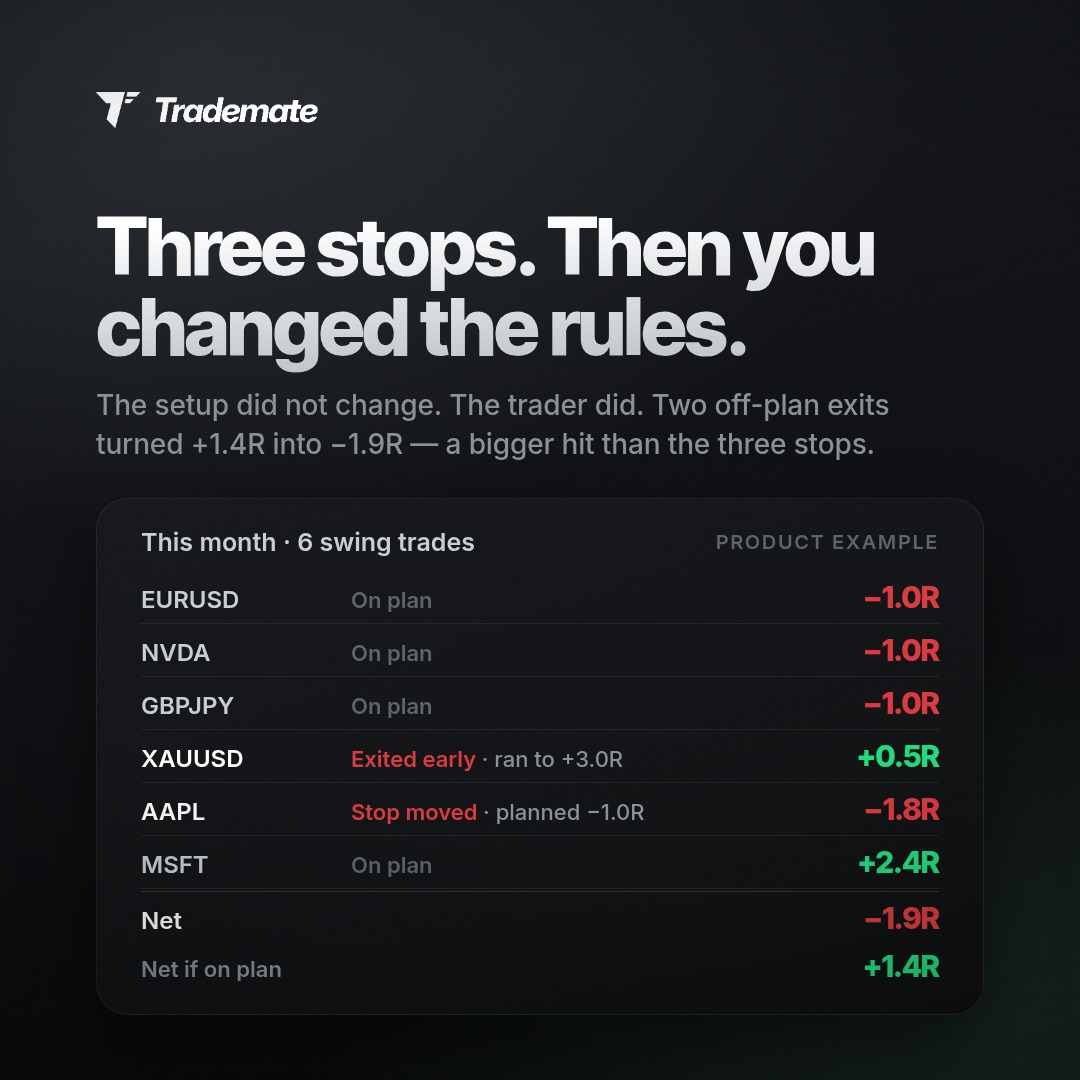
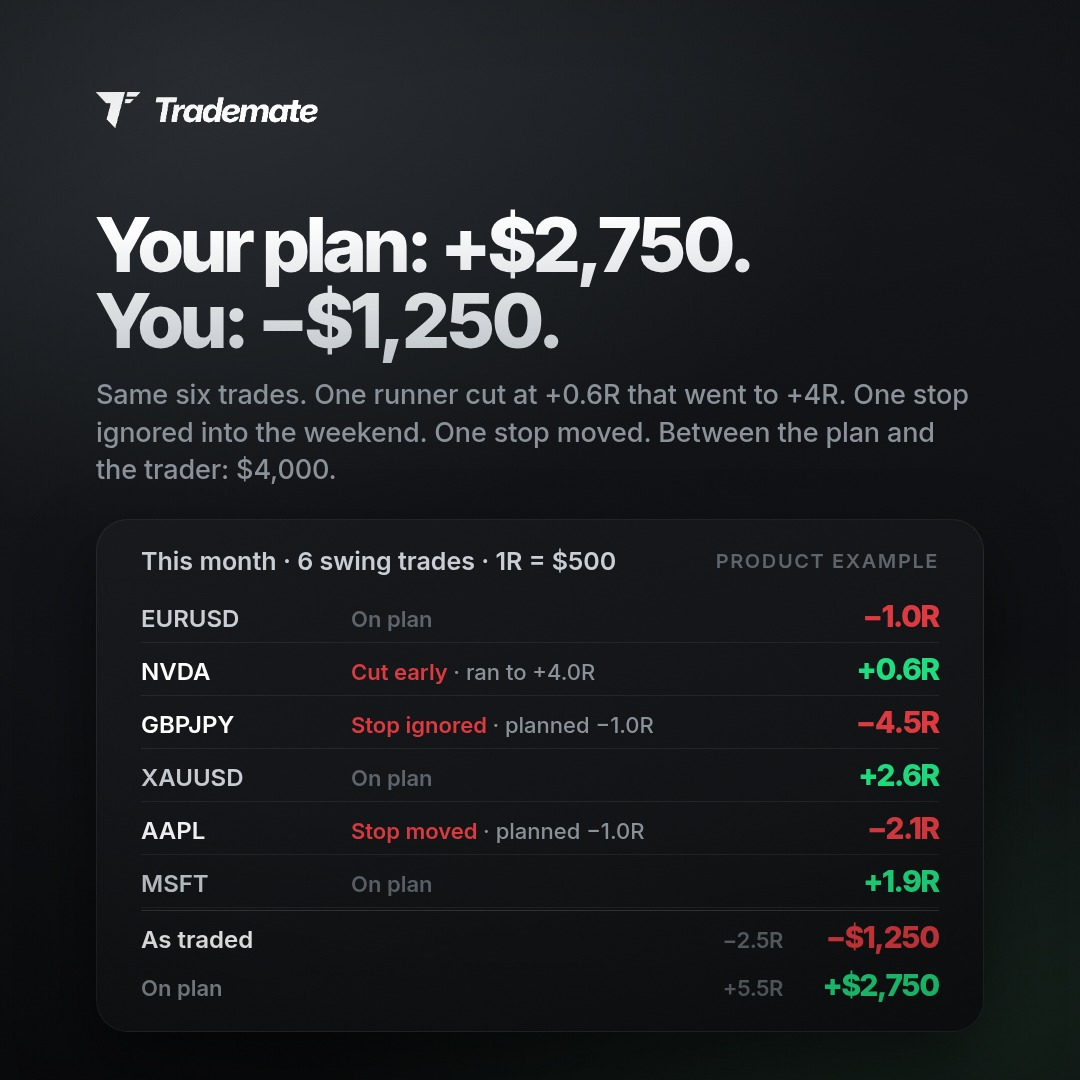
Pain posts: one session, one month, numbers that hurt
Day post reads as a single session now, not an hourly average: the card
names the day, counts the trades, plots one dot per trade on a cumulative
P&L curve and marks the first loss. Numbers scaled up to a +$1,240 high
and a -$860 close, with a KPI strip (given back, entries after the first
loss, on plan) so the story is on the card.

Swing post reframed as plan vs. trader: same six trades, +$2,750 on plan,
-$1,250 as traded, 1R = $500 stated on the card. Three off-plan decisions
(runner cut, stop ignored into the weekend, stop moved) explain the $4,000
gap. Captions rewritten to match.

Claude-Session: https://claude.ai/code/session_01N2gUmRZUhZ4hqjJePYK53L

diff --git a/posts/pain-day-swing/src/post.html b/posts/pain-day-swing/src/post.html
@@ -120,9 +120,16 @@
   .rows .net span{font-size:27px;color:#fff;} .rows .net b{font-size:44px;}
   .rows .net.alt{padding-top:4px;margin-top:0;border-top:none;} .rows .net.alt span{font-size:22px;color:#8a9199;} .rows .net.alt b{font-size:30px;}
   .rows.one>div em i{font-style:normal;color:#8a9199;font-weight:500;}
-  body[data-slide="day"] .hl, body[data-slide="swing"] .hl{font-size:80px;}
+  
   body[data-slide="day"] .sub, body[data-slide="swing"] .sub{font-size:30px;max-width:880px;}
-  body[data-slide="swing"] .sub{font-size:28px;margin-top:20px;}
+  body[data-slide="swing"] .sub, body[data-slide="day"] .sub{font-size:27px;margin-top:18px;}
+  .ylab{font-family:'Inter';font-size:16px;font-weight:700;letter-spacing:.14em;text-transform:uppercase;color:#5d646b;margin-top:10px;}
+  .kpis{display:grid;grid-template-columns:1fr 1.4fr 1fr;gap:20px;margin-top:14px;padding-top:18px;border-top:1px solid rgba(255,255,255,.08);}
+  .kpis b{display:block;font-size:34px;font-weight:800;letter-spacing:-.03em;color:#fff;} .kpis div:first-child b{color:#DC3A40;}
+  .kpis span{display:block;font-family:'Inter';font-size:19px;font-weight:500;color:#8a9199;margin-top:2px;line-height:1.25;}
+  .rows .net em{font-style:normal;font-family:'Inter Tight';font-size:26px;font-weight:700;color:#8a9199;flex:1;text-align:right;padding-right:26px;letter-spacing:-.02em;}
+  .rows .net.alt em{font-size:22px;}
+  body[data-slide="day"] .hl, body[data-slide="swing"] .hl{font-size:76px;}
   .disc{position:absolute;left:88px;right:88px;bottom:70px;text-align:center;font-family:'Inter';font-size:19px;font-weight:500;color:#5d646b;line-height:1.45;}
 </style></head>
 <body>
@@ -156,10 +163,11 @@ en:{
   stB:'Auto charts', stBd:'Every trade gets its chart attached automatically. Entry, exit, stop, target.',
   vote:'Vote below', zoneA:'Poll sticker goes here', zoneB:'Options: Backtesting · Auto charts',
   disc:'Product concept. Features shown are planned, not final.',
-  dayH:'Up $490 at 10:00.<br>Up $35 at the close.', dayS:'Everything after the first red trade was an attempt to get it back. $625 given back in three hours, none of it on the plan.',
-  dayM:'Running P&L · one session', dayF:'Product example', dayHi:'High', dayCl:'Close',
-  swH:'Three stops. Then you changed the rules.', swS:'The setup did not change. The trader did. Two off-plan exits turned +1.4R into −1.9R — a bigger hit than the three stops.',
-  swM:'This month · 6 swing trades', swN:'Net', swP:'Net if on plan', swF:'Product example', plan:'On plan', early:'Exited early', earlyN:'ran to', moved:'Stop moved', movedN:'planned'
+  dayH:'Up $1,240 at 10:30.<br>Down $860 at the close.', dayS:'One good hour, then ten entries to get it back. $2,100 given back, two of them on the plan.',
+  dayM:'Tue, Aug 12 · one session · 13 trades', dayY:'Cumulative P&L', dayF:'Product example', dayHi:'High', dayCl:'Close', dayFL:'First loss',
+  dayK:[['$2,100','given back'],['10','entries after the first loss'],['2','on the plan']],
+  swH:'Your plan: +$2,750.<br>You: −$1,250.', swS:'Same six trades. One runner cut at +0.6R that went to +4R. One stop ignored into the weekend. One stop moved. Between the plan and the trader: $4,000.',
+  swM:'This month · 6 swing trades · 1R = $500', swN:'As traded', swP:'On plan', swF:'Product example', plan:'On plan', early:'Cut early', earlyN:'ran to', ignored:'Stop ignored', ignoredN:'planned', moved:'Stop moved', movedN:'planned'
 },
 de:{
   swipe:'Wischen →', brand:'Trademate', concept:'Konzept, kein finales UI', of:'von',
@@ -185,10 +193,11 @@ de:{
   stB:'Auto-Charts', stBd:'Jeder Trade bekommt seinen Chart automatisch angehängt. Entry, Exit, Stop, Ziel.',
   vote:'Stimm unten ab', zoneA:'Umfrage-Sticker hier platzieren', zoneB:'Optionen: Backtesting · Auto-Charts',
   disc:'Produktkonzept. Gezeigte Funktionen sind geplant, nicht final.',
-  dayH:'Um 10:00 bei +$490.<br>Zum Close bei +$35.', dayS:'Alles nach dem ersten roten Trade war der Versuch, es zurückzuholen. $625 in drei Stunden zurückgegeben, nichts davon nach Plan.',
-  dayM:'Laufender P&L · eine Session', dayF:'Produktbeispiel', dayHi:'Hoch', dayCl:'Close',
-  swH:'Drei Stops. Dann hast du die Regeln geändert.', swS:'Das Setup war dasselbe. Der Trader nicht. Zwei Exits gegen den Plan machten aus +1,4R −1,9R – teurer als die drei Stops.',
-  swM:'Dieser Monat · 6 Swing-Trades', swN:'Netto', swP:'Netto nach Plan', swF:'Produktbeispiel', plan:'Nach Plan', early:'Zu früh raus', earlyN:'lief bis', moved:'Stop verschoben', movedN:'geplant'
+  dayH:'Um 10:30 bei +$1.240.<br>Zum Close bei −$860.', dayS:'Eine gute Stunde, dann zehn Entries, um es zurückzuholen. $2.100 zurückgegeben, zwei davon nach Plan.',
+  dayM:'Di., 12. Aug. · eine Session · 13 Trades', dayY:'Kumulierter P&L', dayF:'Produktbeispiel', dayHi:'Hoch', dayCl:'Close', dayFL:'Erster Verlust',
+  dayK:[['$2.100','zurückgegeben'],['10','Entries nach dem ersten Verlust'],['2','nach Plan']],
+  swH:'Dein Plan: +$2.750.<br>Du: −$1.250.', swS:'Dieselben sechs Trades. Ein Runner bei +0,6R gekappt, der bis +4R lief. Ein Stop übers Wochenende ignoriert, einer verschoben. Zwischen Plan und Trader: $4.000.',
+  swM:'Dieser Monat · 6 Swing-Trades · 1R = $500', swN:'So gehandelt', swP:'Nach Plan', swF:'Produktbeispiel', plan:'Nach Plan', early:'Zu früh raus', earlyN:'lief bis', ignored:'Stop ignoriert', ignoredN:'geplant', moved:'Stop verschoben', movedN:'geplant'
 }}[LANG];
 
 function candles(){ // deterministic little 5m chart for slide 6
@@ -212,23 +221,35 @@ function candles(){ // deterministic little 5m chart for slide 6
 const logo='<img class="logo" src="logo.png" alt="Trademate">';
 const foot=(n)=>'<div class="foot"><span>'+C.brand+'</span><span>'+(n<7?C.swipe:'')+'</span><span>'+n+' / 7</span></div>';
 function runningPnl(){
-  const pts=[['09:00',0],['10:00',490],['11:00',370],['12:00',-40],['13:00',-135],['14:00',-75],['15:00',120],['16:00',35]];
-  const W=800,H=330,padL=44,padR=70,top=54,bot=54,min=-230,max=560;
-  const x=i=>padL+i*(W-padL-padR)/(pts.length-1), y=v=>top+(max-v)/(max-min)*(H-top-bot);
-  let d=pts.map((p,i)=>(i?'L':'M')+x(i)+' '+y(p[1])).join(' ');
+  const pts=[['09:30',0],['10:00',720],['10:30',1240],['11:00',980],['11:30',410],['12:00',-120],['12:30',-540],['13:00',-310],['13:30',-690],['14:00',-450],['14:30',-700],['15:00',-520],['15:30',-640],['16:00',-860]];
+  const W=800,H=290,padL=36,padR=70,top=56,bot=46,min=-1150,max=1500;
+  const n=pts.length, x=i=>padL+i*(W-padL-padR)/(n-1), y=v=>top+(max-v)/(max-min)*(H-top-bot);
+  const dol=v=>(v>=0?'+':'−')+'$'+Math.abs(v).toLocaleString(LANG==='de'?'de-DE':'en-US');
+  const d=pts.map((p,i)=>(i?'L':'M')+x(i).toFixed(1)+' '+y(p[1]).toFixed(1)).join(' ');
   let s='<svg width="'+W+'" height="'+H+'" viewBox="0 0 '+W+' '+H+'">';
-  s+='<defs><linearGradient id="gA" x1="0" y1="0" x2="0" y2="1"><stop offset="0" stop-color="#1FDD7F" stop-opacity=".22"/><stop offset="1" stop-color="#1FDD7F" stop-opacity="0"/></linearGradient></defs>';
-  s+='<line x1="0" x2="'+W+'" y1="'+y(0)+'" y2="'+y(0)+'" stroke="rgba(255,255,255,.16)" stroke-dasharray="4 6"/>';
-  s+='<path d="'+d+' L'+x(pts.length-1)+' '+y(0)+' L'+x(0)+' '+y(0)+'Z" fill="url(#gA)"/>';
+  s+='<defs><linearGradient id="gA" x1="0" y1="0" x2="0" y2="1"><stop offset="0" stop-color="#1FDD7F" stop-opacity=".22"/><stop offset="1" stop-color="#1FDD7F" stop-opacity="0"/></linearGradient>'
+   +'<linearGradient id="gR" x1="0" y1="0" x2="0" y2="1"><stop offset="0" stop-color="#DC3A40" stop-opacity="0"/><stop offset="1" stop-color="#DC3A40" stop-opacity=".22"/></linearGradient>'
+   +'<clipPath id="cUp"><rect x="0" y="0" width="'+W+'" height="'+y(0)+'"/></clipPath><clipPath id="cDn"><rect x="0" y="'+y(0)+'" width="'+W+'" height="'+(H-y(0))+'"/></clipPath></defs>';
+  s+='<line x1="'+padL+'" x2="'+(W-padR+30)+'" y1="'+y(0)+'" y2="'+y(0)+'" stroke="rgba(255,255,255,.18)" stroke-dasharray="4 6"/>';
+  s+='<text x="'+(padL-4)+'" y="'+(y(0)+22)+'" font-family="Inter" font-size="16" font-weight="600" fill="#5d646b">$0</text>';
+  const area='M'+x(0)+' '+y(0)+' '+pts.map((p,i)=>'L'+x(i)+' '+y(p[1])).join(' ')+' L'+x(n-1)+' '+y(0)+'Z';
+  s+='<path d="'+area+'" fill="url(#gA)" clip-path="url(#cUp)"/><path d="'+area+'" fill="url(#gR)" clip-path="url(#cDn)"/>';
   s+='<path d="'+d+'" fill="none" stroke="#e6e9ec" stroke-width="4" stroke-linejoin="round" stroke-linecap="round"/>';
-  // give-back segment in red
-  s+='<path d="M'+x(1)+' '+y(490)+' L'+x(2)+' '+y(370)+' L'+x(3)+' '+y(-40)+' L'+x(4)+' '+y(-135)+'" fill="none" stroke="#DC3A40" stroke-width="4" stroke-linejoin="round" stroke-linecap="round"/>';
-  pts.forEach((p,i)=>s+='<text x="'+x(i)+'" y="'+(H-14)+'" text-anchor="middle" font-family="Inter" font-size="20" font-weight="600" fill="#7e868d">'+p[0]+'</text>');
-  const mark=(i,v,l,col,dy,side)=>{s+='<circle cx="'+x(i)+'" cy="'+y(v)+'" r="9" fill="'+col+'" stroke="#0e1012" stroke-width="4"/>';
-    if(side){s+='<text x="'+(x(i)+18)+'" y="'+(y(v)+10)+'" font-family="Inter Tight" font-size="27" font-weight="800" fill="'+col+'">'+(v>=0?'+':'−')+'$'+Math.abs(v)+'</text>';return;}
-    s+='<text x="'+x(i)+'" y="'+(y(v)+dy)+'" text-anchor="middle" font-family="Inter Tight" font-size="27" font-weight="800" fill="'+col+'">'+(v>=0?'+':'−')+'$'+Math.abs(v)+'</text>';
-    s+='<text x="'+x(i)+'" y="'+(y(v)+dy+(dy<0?-28:26))+'" text-anchor="middle" font-family="Inter" font-size="18" font-weight="600" fill="#7e868d" letter-spacing="1">'+l.toUpperCase()+'</text>';};
-  mark(1,490,C.dayHi,'#1FDD7F',-22); mark(4,-135,'','#DC3A40',0,true); mark(7,35,C.dayCl,'#e6e9ec',-22);
+  // everything after the high, in red
+  s+='<path d="'+pts.slice(2).map((p,i)=>(i?'L':'M')+x(i+2).toFixed(1)+' '+y(p[1]).toFixed(1)).join(' ')+'" fill="none" stroke="#DC3A40" stroke-width="4" stroke-linejoin="round" stroke-linecap="round"/>';
+  // one dot per trade
+  pts.forEach((p,i)=>{ if(i===0) return; const col=i<=2?'#1FDD7F':'#DC3A40'; s+='<circle cx="'+x(i)+'" cy="'+y(p[1])+'" r="5.5" fill="'+col+'" stroke="#0e1012" stroke-width="2.5"/>'; });
+  // hour ticks
+  pts.forEach((p,i)=>{ if(i%2===0) return; s+='<text x="'+x(i)+'" y="'+(H-8)+'" text-anchor="middle" font-family="Inter" font-size="19" font-weight="600" fill="#7e868d">'+p[0]+'</text>'; });
+  const big=(i,v,l,col,above)=>{s+='<circle cx="'+x(i)+'" cy="'+y(v)+'" r="9" fill="'+col+'" stroke="#0e1012" stroke-width="4"/>';
+    const ty=above?y(v)-20:y(v)+36, ly=above?ty-26:ty+24;
+    s+='<text x="'+x(i)+'" y="'+ty+'" text-anchor="middle" font-family="Inter Tight" font-size="27" font-weight="800" fill="'+col+'">'+dol(v)+'</text>';
+    s+='<text x="'+x(i)+'" y="'+ly+'" text-anchor="middle" font-family="Inter" font-size="16" font-weight="700" fill="#7e868d" letter-spacing="1.5">'+l.toUpperCase()+'</text>';};
+  big(2,1240,C.dayHi,'#1FDD7F',true);
+  big(13,-860,C.dayCl,'#DC3A40',true);
+  // first loss marker
+  s+='<circle cx="'+x(3)+'" cy="'+y(980)+'" r="9" fill="none" stroke="#DC3A40" stroke-width="2.5"/>';
+  s+='<text x="'+(x(3)+18)+'" y="'+(y(980)-8)+'" font-family="Inter" font-size="16" font-weight="700" fill="#8a9199" letter-spacing="1.5">'+C.dayFL.toUpperCase()+'</text>';
   return s+'</svg>';
 }
 function hourBars(){
@@ -242,16 +263,18 @@ function hourBars(){
     s+='<text x="'+(x+bw/2)+'" y="'+(H-6)+'" text-anchor="middle" font-family="Inter" font-size="21" font-weight="600" fill="#7e868d">'+h+':00</text>';});
   return s+'</svg>';
 }
-const swingRows=[['EURUSD',-1.0,'plan',null],['NVDA',-1.0,'plan',null],['GBPJPY',-1.0,'plan',null],['XAUUSD',0.5,'early',3.0],['AAPL',-1.8,'moved',-1.0],['MSFT',2.4,'plan',null]];
+const swingRows=[['EURUSD',-1.0,'plan',null],['NVDA',0.6,'early',4.0],['GBPJPY',-4.5,'ignored',-1.0],['XAUUSD',2.6,'plan',null],['AAPL',-2.1,'moved',-1.0],['MSFT',1.9,'plan',null]];
+const fmtD=r=>(r>=0?'+':'−')+'$'+Math.abs(Math.round(r*500)).toLocaleString(LANG==='de'?'de-DE':'en-US');
 const fmtR=v=>(v>=0?'+':'−')+Math.abs(v).toFixed(1).replace('.',LANG==='de'?',':'.')+'R';
 const S={
  day:()=>logo+'<div class="hl" style="margin-top:78px">'+C.dayH+'</div><div class="sub">'+C.dayS+'</div>'
-   +'<div class="card" style="margin-top:40px;padding:30px 44px 18px"><div class="hdr"><div class="t">'+C.dayM+'</div><div class="m">'+C.dayF+'</div></div><div style="margin-top:4px">'+runningPnl()+'</div></div>'
+   +'<div class="card" style="margin-top:36px;padding:28px 44px 24px"><div class="hdr"><div class="t">'+C.dayM+'</div><div class="m">'+C.dayF+'</div></div><div class="ylab">'+C.dayY+'</div><div style="margin-top:2px">'+runningPnl()+'</div>'
+   +'<div class="kpis">'+C.dayK.map(([v,l])=>'<div><b>'+v+'</b><span>'+l+'</span></div>').join('')+'</div></div>'
 ,
  swing:()=>logo+'<div class="hl" style="margin-top:78px">'+C.swH+'</div><div class="sub">'+C.swS+'</div>'
-   +'<div class="card" style="margin-top:34px;padding:28px 44px 22px"><div class="hdr"><div class="t">'+C.swM+'</div><div class="m">'+C.swF+'</div></div>'
+   +'<div class="card" style="margin-top:30px;padding:26px 44px 20px"><div class="hdr"><div class="t">'+C.swM+'</div><div class="m">'+C.swF+'</div></div>'
    +'<div class="rows one">'+swingRows.map(([a,b,n,pl])=>'<div'+(n!=='plan'?' class="off"':'')+'><span>'+a+'</span><em>'+C[n]+(pl!==null?' <i>· '+C[n+'N']+' '+fmtR(pl)+'</i>':'')+'</em><b class="'+(b>=0?'g':'r')+'">'+fmtR(b)+'</b></div>').join('')
-   +'<div class="net"><span>'+C.swN+'</span><b class="r">'+fmtR(-1.9)+'</b></div><div class="net alt"><span>'+C.swP+'</span><b class="g">'+fmtR(1.4)+'</b></div></div></div>',
+   +'<div class="net"><span>'+C.swN+'</span><em>'+fmtR(-2.5)+'</em><b class="r">'+fmtD(-2.5)+'</b></div><div class="net alt"><span>'+C.swP+'</span><em>'+fmtR(5.5)+'</em><b class="g">'+fmtD(5.5)+'</b></div></div></div>',
  1:()=>logo+'<div class="eyebrow">'+C.s1e+'</div><div class="hl">'+C.s1h+'</div><div class="sub">'+C.s1s+'</div>'+foot(1),
  2:()=>logo+'<div class="hl" style="margin-top:70px">'+C.s2h+'</div><div class="cols"><div class="col"><h3>'+C.day+'</h3><ul>'+C.d.map(x=>'<li>'+x+'</li>').join('')+'</ul></div><div class="col s"><h3>'+C.swing+'</h3><ul>'+C.s.map(x=>'<li>'+x+'</li>').join('')+'</ul></div></div>'+foot(2),
  3:()=>logo+'<div class="hl" style="margin-top:70px;font-size:74px">'+C.s3h+'</div><div class="sub">'+C.s3s+'</div>'

diff --git a/posts/story-feature-poll/src/post.html b/posts/story-feature-poll/src/post.html
@@ -120,9 +120,16 @@
   .rows .net span{font-size:27px;color:#fff;} .rows .net b{font-size:44px;}
   .rows .net.alt{padding-top:4px;margin-top:0;border-top:none;} .rows .net.alt span{font-size:22px;color:#8a9199;} .rows .net.alt b{font-size:30px;}
   .rows.one>div em i{font-style:normal;color:#8a9199;font-weight:500;}
-  body[data-slide="day"] .hl, body[data-slide="swing"] .hl{font-size:80px;}
+  
   body[data-slide="day"] .sub, body[data-slide="swing"] .sub{font-size:30px;max-width:880px;}
-  body[data-slide="swing"] .sub{font-size:28px;margin-top:20px;}
+  body[data-slide="swing"] .sub, body[data-slide="day"] .sub{font-size:27px;margin-top:18px;}
+  .ylab{font-family:'Inter';font-size:16px;font-weight:700;letter-spacing:.14em;text-transform:uppercase;color:#5d646b;margin-top:10px;}
+  .kpis{display:grid;grid-template-columns:1fr 1.4fr 1fr;gap:20px;margin-top:14px;padding-top:18px;border-top:1px solid rgba(255,255,255,.08);}
+  .kpis b{display:block;font-size:34px;font-weight:800;letter-spacing:-.03em;color:#fff;} .kpis div:first-child b{color:#DC3A40;}
+  .kpis span{display:block;font-family:'Inter';font-size:19px;font-weight:500;color:#8a9199;margin-top:2px;line-height:1.25;}
+  .rows .net em{font-style:normal;font-family:'Inter Tight';font-size:26px;font-weight:700;color:#8a9199;flex:1;text-align:right;padding-right:26px;letter-spacing:-.02em;}
+  .rows .net.alt em{font-size:22px;}
+  body[data-slide="day"] .hl, body[data-slide="swing"] .hl{font-size:76px;}
   .disc{position:absolute;left:88px;right:88px;bottom:70px;text-align:center;font-family:'Inter';font-size:19px;font-weight:500;color:#5d646b;line-height:1.45;}
 </style></head>
 <body>
@@ -156,10 +163,11 @@ en:{
   stB:'Auto charts', stBd:'Every trade gets its chart attached automatically. Entry, exit, stop, target.',
   vote:'Vote below', zoneA:'Poll sticker goes here', zoneB:'Options: Backtesting · Auto charts',
   disc:'Product concept. Features shown are planned, not final.',
-  dayH:'Up $490 at 10:00.<br>Up $35 at the close.', dayS:'Everything after the first red trade was an attempt to get it back. $625 given back in three hours, none of it on the plan.',
-  dayM:'Running P&L · one session', dayF:'Product example', dayHi:'High', dayCl:'Close',
-  swH:'Three stops. Then you changed the rules.', swS:'The setup did not change. The trader did. Two off-plan exits turned +1.4R into −1.9R — a bigger hit than the three stops.',
-  swM:'This month · 6 swing trades', swN:'Net', swP:'Net if on plan', swF:'Product example', plan:'On plan', early:'Exited early', earlyN:'ran to', moved:'Stop moved', movedN:'planned'
+  dayH:'Up $1,240 at 10:30.<br>Down $860 at the close.', dayS:'One good hour, then ten entries to get it back. $2,100 given back, two of them on the plan.',
+  dayM:'Tue, Aug 12 · one session · 13 trades', dayY:'Cumulative P&L', dayF:'Product example', dayHi:'High', dayCl:'Close', dayFL:'First loss',
+  dayK:[['$2,100','given back'],['10','entries after the first loss'],['2','on the plan']],
+  swH:'Your plan: +$2,750.<br>You: −$1,250.', swS:'Same six trades. One runner cut at +0.6R that went to +4R. One stop ignored into the weekend. One stop moved. Between the plan and the trader: $4,000.',
+  swM:'This month · 6 swing trades · 1R = $500', swN:'As traded', swP:'On plan', swF:'Product example', plan:'On plan', early:'Cut early', earlyN:'ran to', ignored:'Stop ignored', ignoredN:'planned', moved:'Stop moved', movedN:'planned'
 },
 de:{
   swipe:'Wischen →', brand:'Trademate', concept:'Konzept, kein finales UI', of:'von',
@@ -185,10 +193,11 @@ de:{
   stB:'Auto-Charts', stBd:'Jeder Trade bekommt seinen Chart automatisch angehängt. Entry, Exit, Stop, Ziel.',
   vote:'Stimm unten ab', zoneA:'Umfrage-Sticker hier platzieren', zoneB:'Optionen: Backtesting · Auto-Charts',
   disc:'Produktkonzept. Gezeigte Funktionen sind geplant, nicht final.',
-  dayH:'Um 10:00 bei +$490.<br>Zum Close bei +$35.', dayS:'Alles nach dem ersten roten Trade war der Versuch, es zurückzuholen. $625 in drei Stunden zurückgegeben, nichts davon nach Plan.',
-  dayM:'Laufender P&L · eine Session', dayF:'Produktbeispiel', dayHi:'Hoch', dayCl:'Close',
-  swH:'Drei Stops. Dann hast du die Regeln geändert.', swS:'Das Setup war dasselbe. Der Trader nicht. Zwei Exits gegen den Plan machten aus +1,4R −1,9R – teurer als die drei Stops.',
-  swM:'Dieser Monat · 6 Swing-Trades', swN:'Netto', swP:'Netto nach Plan', swF:'Produktbeispiel', plan:'Nach Plan', early:'Zu früh raus', earlyN:'lief bis', moved:'Stop verschoben', movedN:'geplant'
+  dayH:'Um 10:30 bei +$1.240.<br>Zum Close bei −$860.', dayS:'Eine gute Stunde, dann zehn Entries, um es zurückzuholen. $2.100 zurückgegeben, zwei davon nach Plan.',
+  dayM:'Di., 12. Aug. · eine Session · 13 Trades', dayY:'Kumulierter P&L', dayF:'Produktbeispiel', dayHi:'Hoch', dayCl:'Close', dayFL:'Erster Verlust',
+  dayK:[['$2.100','zurückgegeben'],['10','Entries nach dem ersten Verlust'],['2','nach Plan']],
+  swH:'Dein Plan: +$2.750.<br>Du: −$1.250.', swS:'Dieselben sechs Trades. Ein Runner bei +0,6R gekappt, der bis +4R lief. Ein Stop übers Wochenende ignoriert, einer verschoben. Zwischen Plan und Trader: $4.000.',
+  swM:'Dieser Monat · 6 Swing-Trades · 1R = $500', swN:'So gehandelt', swP:'Nach Plan', swF:'Produktbeispiel', plan:'Nach Plan', early:'Zu früh raus', earlyN:'lief bis', ignored:'Stop ignoriert', ignoredN:'geplant', moved:'Stop verschoben', movedN:'geplant'
 }}[LANG];
 
 function candles(){ // deterministic little 5m chart for slide 6
@@ -212,23 +221,35 @@ function candles(){ // deterministic little 5m chart for slide 6
 const logo='<img class="logo" src="logo.png" alt="Trademate">';
 const foot=(n)=>'<div class="foot"><span>'+C.brand+'</span><span>'+(n<7?C.swipe:'')+'</span><span>'+n+' / 7</span></div>';
 function runningPnl(){
-  const pts=[['09:00',0],['10:00',490],['11:00',370],['12:00',-40],['13:00',-135],['14:00',-75],['15:00',120],['16:00',35]];
-  const W=800,H=330,padL=44,padR=70,top=54,bot=54,min=-230,max=560;
-  const x=i=>padL+i*(W-padL-padR)/(pts.length-1), y=v=>top+(max-v)/(max-min)*(H-top-bot);
-  let d=pts.map((p,i)=>(i?'L':'M')+x(i)+' '+y(p[1])).join(' ');
+  const pts=[['09:30',0],['10:00',720],['10:30',1240],['11:00',980],['11:30',410],['12:00',-120],['12:30',-540],['13:00',-310],['13:30',-690],['14:00',-450],['14:30',-700],['15:00',-520],['15:30',-640],['16:00',-860]];
+  const W=800,H=290,padL=36,padR=70,top=56,bot=46,min=-1150,max=1500;
+  const n=pts.length, x=i=>padL+i*(W-padL-padR)/(n-1), y=v=>top+(max-v)/(max-min)*(H-top-bot);
+  const dol=v=>(v>=0?'+':'−')+'$'+Math.abs(v).toLocaleString(LANG==='de'?'de-DE':'en-US');
+  const d=pts.map((p,i)=>(i?'L':'M')+x(i).toFixed(1)+' '+y(p[1]).toFixed(1)).join(' ');
   let s='<svg width="'+W+'" height="'+H+'" viewBox="0 0 '+W+' '+H+'">';
-  s+='<defs><linearGradient id="gA" x1="0" y1="0" x2="0" y2="1"><stop offset="0" stop-color="#1FDD7F" stop-opacity=".22"/><stop offset="1" stop-color="#1FDD7F" stop-opacity="0"/></linearGradient></defs>';
-  s+='<line x1="0" x2="'+W+'" y1="'+y(0)+'" y2="'+y(0)+'" stroke="rgba(255,255,255,.16)" stroke-dasharray="4 6"/>';
-  s+='<path d="'+d+' L'+x(pts.length-1)+' '+y(0)+' L'+x(0)+' '+y(0)+'Z" fill="url(#gA)"/>';
+  s+='<defs><linearGradient id="gA" x1="0" y1="0" x2="0" y2="1"><stop offset="0" stop-color="#1FDD7F" stop-opacity=".22"/><stop offset="1" stop-color="#1FDD7F" stop-opacity="0"/></linearGradient>'
+   +'<linearGradient id="gR" x1="0" y1="0" x2="0" y2="1"><stop offset="0" stop-color="#DC3A40" stop-opacity="0"/><stop offset="1" stop-color="#DC3A40" stop-opacity=".22"/></linearGradient>'
+   +'<clipPath id="cUp"><rect x="0" y="0" width="'+W+'" height="'+y(0)+'"/></clipPath><clipPath id="cDn"><rect x="0" y="'+y(0)+'" width="'+W+'" height="'+(H-y(0))+'"/></clipPath></defs>';
+  s+='<line x1="'+padL+'" x2="'+(W-padR+30)+'" y1="'+y(0)+'" y2="'+y(0)+'" stroke="rgba(255,255,255,.18)" stroke-dasharray="4 6"/>';
+  s+='<text x="'+(padL-4)+'" y="'+(y(0)+22)+'" font-family="Inter" font-size="16" font-weight="600" fill="#5d646b">$0</text>';
+  const area='M'+x(0)+' '+y(0)+' '+pts.map((p,i)=>'L'+x(i)+' '+y(p[1])).join(' ')+' L'+x(n-1)+' '+y(0)+'Z';
+  s+='<path d="'+area+'" fill="url(#gA)" clip-path="url(#cUp)"/><path d="'+area+'" fill="url(#gR)" clip-path="url(#cDn)"/>';
   s+='<path d="'+d+'" fill="none" stroke="#e6e9ec" stroke-width="4" stroke-linejoin="round" stroke-linecap="round"/>';
-  // give-back segment in red
-  s+='<path d="M'+x(1)+' '+y(490)+' L'+x(2)+' '+y(370)+' L'+x(3)+' '+y(-40)+' L'+x(4)+' '+y(-135)+'" fill="none" stroke="#DC3A40" stroke-width="4" stroke-linejoin="round" stroke-linecap="round"/>';
-  pts.forEach((p,i)=>s+='<text x="'+x(i)+'" y="'+(H-14)+'" text-anchor="middle" font-family="Inter" font-size="20" font-weight="600" fill="#7e868d">'+p[0]+'</text>');
-  const mark=(i,v,l,col,dy,side)=>{s+='<circle cx="'+x(i)+'" cy="'+y(v)+'" r="9" fill="'+col+'" stroke="#0e1012" stroke-width="4"/>';
-    if(side){s+='<text x="'+(x(i)+18)+'" y="'+(y(v)+10)+'" font-family="Inter Tight" font-size="27" font-weight="800" fill="'+col+'">'+(v>=0?'+':'−')+'$'+Math.abs(v)+'</text>';return;}
-    s+='<text x="'+x(i)+'" y="'+(y(v)+dy)+'" text-anchor="middle" font-family="Inter Tight" font-size="27" font-weight="800" fill="'+col+'">'+(v>=0?'+':'−')+'$'+Math.abs(v)+'</text>';
-    s+='<text x="'+x(i)+'" y="'+(y(v)+dy+(dy<0?-28:26))+'" text-anchor="middle" font-family="Inter" font-size="18" font-weight="600" fill="#7e868d" letter-spacing="1">'+l.toUpperCase()+'</text>';};
-  mark(1,490,C.dayHi,'#1FDD7F',-22); mark(4,-135,'','#DC3A40',0,true); mark(7,35,C.dayCl,'#e6e9ec',-22);
+  // everything after the high, in red
+  s+='<path d="'+pts.slice(2).map((p,i)=>(i?'L':'M')+x(i+2).toFixed(1)+' '+y(p[1]).toFixed(1)).join(' ')+'" fill="none" stroke="#DC3A40" stroke-width="4" stroke-linejoin="round" stroke-linecap="round"/>';
+  // one dot per trade
+  pts.forEach((p,i)=>{ if(i===0) return; const col=i<=2?'#1FDD7F':'#DC3A40'; s+='<circle cx="'+x(i)+'" cy="'+y(p[1])+'" r="5.5" fill="'+col+'" stroke="#0e1012" stroke-width="2.5"/>'; });
+  // hour ticks
+  pts.forEach((p,i)=>{ if(i%2===0) return; s+='<text x="'+x(i)+'" y="'+(H-8)+'" text-anchor="middle" font-family="Inter" font-size="19" font-weight="600" fill="#7e868d">'+p[0]+'</text>'; });
+  const big=(i,v,l,col,above)=>{s+='<circle cx="'+x(i)+'" cy="'+y(v)+'" r="9" fill="'+col+'" stroke="#0e1012" stroke-width="4"/>';
+    const ty=above?y(v)-20:y(v)+36, ly=above?ty-26:ty+24;
+    s+='<text x="'+x(i)+'" y="'+ty+'" text-anchor="middle" font-family="Inter Tight" font-size="27" font-weight="800" fill="'+col+'">'+dol(v)+'</text>';
+    s+='<text x="'+x(i)+'" y="'+ly+'" text-anchor="middle" font-family="Inter" font-size="16" font-weight="700" fill="#7e868d" letter-spacing="1.5">'+l.toUpperCase()+'</text>';};
+  big(2,1240,C.dayHi,'#1FDD7F',true);
+  big(13,-860,C.dayCl,'#DC3A40',true);
+  // first loss marker
+  s+='<circle cx="'+x(3)+'" cy="'+y(980)+'" r="9" fill="none" stroke="#DC3A40" stroke-width="2.5"/>';
+  s+='<text x="'+(x(3)+18)+'" y="'+(y(980)-8)+'" font-family="Inter" font-size="16" font-weight="700" fill="#8a9199" letter-spacing="1.5">'+C.dayFL.toUpperCase()+'</text>';
   return s+'</svg>';
 }
 function hourBars(){
@@ -242,16 +263,18 @@ function hourBars(){
     s+='<text x="'+(x+bw/2)+'" y="'+(H-6)+'" text-anchor="middle" font-family="Inter" font-size="21" font-weight="600" fill="#7e868d">'+h+':00</text>';});
   return s+'</svg>';
 }
-const swingRows=[['EURUSD',-1.0,'plan',null],['NVDA',-1.0,'plan',null],['GBPJPY',-1.0,'plan',null],['XAUUSD',0.5,'early',3.0],['AAPL',-1.8,'moved',-1.0],['MSFT',2.4,'plan',null]];
+const swingRows=[['EURUSD',-1.0,'plan',null],['NVDA',0.6,'early',4.0],['GBPJPY',-4.5,'ignored',-1.0],['XAUUSD',2.6,'plan',null],['AAPL',-2.1,'moved',-1.0],['MSFT',1.9,'plan',null]];
+const fmtD=r=>(r>=0?'+':'−')+'$'+Math.abs(Math.round(r*500)).toLocaleString(LANG==='de'?'de-DE':'en-US');
 const fmtR=v=>(v>=0?'+':'−')+Math.abs(v).toFixed(1).replace('.',LANG==='de'?',':'.')+'R';
 const S={
  day:()=>logo+'<div class="hl" style="margin-top:78px">'+C.dayH+'</div><div class="sub">'+C.dayS+'</div>'
-   +'<div class="card" style="margin-top:40px;padding:30px 44px 18px"><div class="hdr"><div class="t">'+C.dayM+'</div><div class="m">'+C.dayF+'</div></div><div style="margin-top:4px">'+runningPnl()+'</div></div>'
+   +'<div class="card" style="margin-top:36px;padding:28px 44px 24px"><div class="hdr"><div class="t">'+C.dayM+'</div><div class="m">'+C.dayF+'</div></div><div class="ylab">'+C.dayY+'</div><div style="margin-top:2px">'+runningPnl()+'</div>'
+   +'<div class="kpis">'+C.dayK.map(([v,l])=>'<div><b>'+v+'</b><span>'+l+'</span></div>').join('')+'</div></div>'
 ,
  swing:()=>logo+'<div class="hl" style="margin-top:78px">'+C.swH+'</div><div class="sub">'+C.swS+'</div>'
-   +'<div class="card" style="margin-top:34px;padding:28px 44px 22px"><div class="hdr"><div class="t">'+C.swM+'</div><div class="m">'+C.swF+'</div></div>'
+   +'<div class="card" style="margin-top:30px;padding:26px 44px 20px"><div class="hdr"><div class="t">'+C.swM+'</div><div class="m">'+C.swF+'</div></div>'
    +'<div class="rows one">'+swingRows.map(([a,b,n,pl])=>'<div'+(n!=='plan'?' class="off"':'')+'><span>'+a+'</span><em>'+C[n]+(pl!==null?' <i>· '+C[n+'N']+' '+fmtR(pl)+'</i>':'')+'</em><b class="'+(b>=0?'g':'r')+'">'+fmtR(b)+'</b></div>').join('')
-   +'<div class="net"><span>'+C.swN+'</span><b class="r">'+fmtR(-1.9)+'</b></div><div class="net alt"><span>'+C.swP+'</span><b class="g">'+fmtR(1.4)+'</b></div></div></div>',
+   +'<div class="net"><span>'+C.swN+'</span><em>'+fmtR(-2.5)+'</em><b class="r">'+fmtD(-2.5)+'</b></div><div class="net alt"><span>'+C.swP+'</span><em>'+fmtR(5.5)+'</em><b class="g">'+fmtD(5.5)+'</b></div></div></div>',
  1:()=>logo+'<div class="eyebrow">'+C.s1e+'</div><div class="hl">'+C.s1h+'</div><div class="sub">'+C.s1s+'</div>'+foot(1),
  2:()=>logo+'<div class="hl" style="margin-top:70px">'+C.s2h+'</div><div class="cols"><div class="col"><h3>'+C.day+'</h3><ul>'+C.d.map(x=>'<li>'+x+'</li>').join('')+'</ul></div><div class="col s"><h3>'+C.swing+'</h3><ul>'+C.s.map(x=>'<li>'+x+'</li>').join('')+'</ul></div></div>'+foot(2),
  3:()=>logo+'<div class="hl" style="margin-top:70px;font-size:74px">'+C.s3h+'</div><div class="sub">'+C.s3s+'</div>'

diff --git a/posts/pain-day-swing/captions.md b/posts/pain-day-swing/captions.md
@@ -3,67 +3,64 @@
 Two independent 1080×1080 posts in the daily-post format, EN and DE. Neither
 mentions a feature or the poll. Every number in a caption is on the card.
 
-## pain_day — "Up $490 at 10:00. Up $35 at the close."
+## pain_day — "Up $1,240 at 10:30. Down $860 at the close."
 
-Card: running P&L of one session. Open at $0, high +$490 at 10:00, low −$135
-at 13:00, close +$35. Give-back 10:00→13:00 = $625.
+Card: cumulative P&L of one session (Tue, Aug 12), 13 trades, one dot per
+trade. Open $0, high +$1,240 at 10:30, first loss at 11:00, close −$860.
+Given back: $2,100. Entries after the first loss: 10, of which 2 on the plan.
 
 EN
-Up $490 one hour into the session. Up $35 at the close. The chart of that
-day is not a chart of the market — it is a chart of one trader chasing the
-first red trade. Between 10:00 and 13:00 the account gave back $625, and not
-one of those entries was on the plan. The afternoon clawed some of it back.
-It usually does, which is exactly why the give-back never shows up in the
-win rate. Product example: these figures illustrate the feature, not real
+Up $1,240 by 10:30. Down $860 at the close. Three trades made the morning.
+Ten trades gave it back, and eight of those ten were never on the plan —
+they were attempts to get back to +$1,240. The best hour of the month turned
+into its worst day, and it did not happen on a bad idea. It happened on the
+first loss. Product example: these figures illustrate the feature, not real
 trader results.
 
-See your session as a running P&L — 7-day trial, link in bio.
+See every session as one curve — 7-day trial, link in bio.
 
 #daytrading #tradingpsychology #tradingjournal #riskmanagement #tradingedge
 
 DE
-Eine Stunde nach Open +$490. Zum Close +$35. Der Chart dieses Tages ist kein
-Chart vom Markt — er ist der Chart eines Traders, der dem ersten roten Trade
-hinterherläuft. Zwischen 10:00 und 13:00 hat das Konto $625 zurückgegeben,
-und kein einziger dieser Entries war nach Plan. Der Nachmittag hat einen
-Teil davon zurückgeholt. Das tut er meistens, und genau deshalb taucht das
-Zurückgeben in der Trefferquote nie auf. Produktbeispiel: Die Zahlen
-veranschaulichen die Funktion, keine echten Handelsergebnisse.
+Um 10:30 bei +$1.240. Zum Close bei −$860. Drei Trades haben den Morgen
+gemacht. Zehn Trades haben ihn zurückgegeben, und acht dieser zehn waren nie
+nach Plan — sie waren Versuche, zurück auf +$1.240 zu kommen. Die beste Stunde
+des Monats wurde sein schlechtester Tag, und das lag nicht an einer schlechten
+Idee. Es lag am ersten Verlust. Produktbeispiel: Die Zahlen veranschaulichen
+die Funktion, keine echten Handelsergebnisse.
 
-Sieh deine Session als laufenden P&L — 7 Tage kostenlos, Link in Bio.
+Sieh jede Session als eine Kurve — 7 Tage kostenlos, Link in Bio.
 
 #daytrading #tradingpsychologie #tradingjournal #riskmanagement #tradingedge
 
-## pain_swing — "Three stops. Then you changed the rules."
+## pain_swing — "Your plan: +$2,750. You: −$1,250."
 
-Card: six swing trades. Three stops on plan (−1.0R each), XAUUSD exited
-early at +0.5R on a trade that ran to +3.0R, AAPL stop moved from −1.0R to
-−1.8R, MSFT on plan +2.4R. As traded −1.9R, on plan +1.4R. The two
-deviations cost 3.3R, the three stops 3.0R.
+Card: six swing trades, 1R = $500. EURUSD −1.0R on plan · NVDA cut early at
++0.6R, ran to +4.0R · GBPJPY stop ignored, −4.5R against a −1.0R plan ·
+XAUUSD +2.6R on plan · AAPL stop moved, −2.1R against −1.0R · MSFT +1.9R on
+plan. As traded −2.5R = −$1,250. On plan +5.5R = +$2,750. Gap $4,000.
 
 EN
-Three stops in a row is the setup doing what setups do. What happened on the
-fourth trade is the part that costs money: out at +0.5R on a trade that went
-on to +3.0R, then a stop moved on the fifth that turned −1.0R into −1.8R. The
-setup did not change. The trader did. On plan, the month closes +1.4R. As
-traded, it closes −1.9R. The two deviations cost 3.3R — more than the three
-stops combined. Product example: these figures illustrate the feature, not
-real trader results.
+Same six signals. On plan they make $2,750 this month. As traded they lose
+$1,250. The difference is not the market: one runner cut at +0.6R that went
+on to +4R, one stop ignored into the weekend that turned −1R into −4.5R, one
+stop moved. Three decisions, $4,000. The setup did its job. The trader did
+not. Product example: these figures illustrate the feature, not real trader
+results.
 
-Tag every off-plan exit — Trademate, link in bio.
+See your month against your plan — Trademate, link in bio.
 
 #swingtrading #tradingdiscipline #tradingjournal #riskmanagement #tradingpsychology
 
 DE
-Drei Stops in Folge sind das Setup, das tut, was Setups tun. Was beim vierten
-Trade passiert, ist der Teil, der Geld kostet: raus bei +0,5R in einem Trade,
-der danach bis +3,0R lief, dann beim fünften ein verschobener Stop, der aus
-−1,0R −1,8R macht. Das Setup war dasselbe. Der Trader nicht. Nach Plan
-schließt der Monat bei +1,4R. So gehandelt bei −1,9R. Die zwei Abweichungen
-kosteten 3,3R — mehr als die drei Stops zusammen. Produktbeispiel: Die Zahlen
-veranschaulichen die Funktion, keine echten Handelsergebnisse.
+Dieselben sechs Signale. Nach Plan machen sie diesen Monat $2.750. So
+gehandelt verlieren sie $1.250. Der Unterschied ist nicht der Markt: ein
+Runner bei +0,6R gekappt, der bis +4R lief, ein Stop übers Wochenende
+ignoriert, der aus −1R −4,5R machte, ein Stop verschoben. Drei Entscheidungen,
+$4.000. Das Setup hat seinen Job gemacht. Der Trader nicht. Produktbeispiel:
+Die Zahlen veranschaulichen die Funktion, keine echten Handelsergebnisse.
 
-Tagge jeden Exit gegen den Plan — Trademate, Link in Bio.
+Sieh deinen Monat gegen deinen Plan — Trademate, Link in Bio.
 
 #swingtrading #tradingdisziplin #tradingjournal #riskmanagement #tradingpsychologie
 
